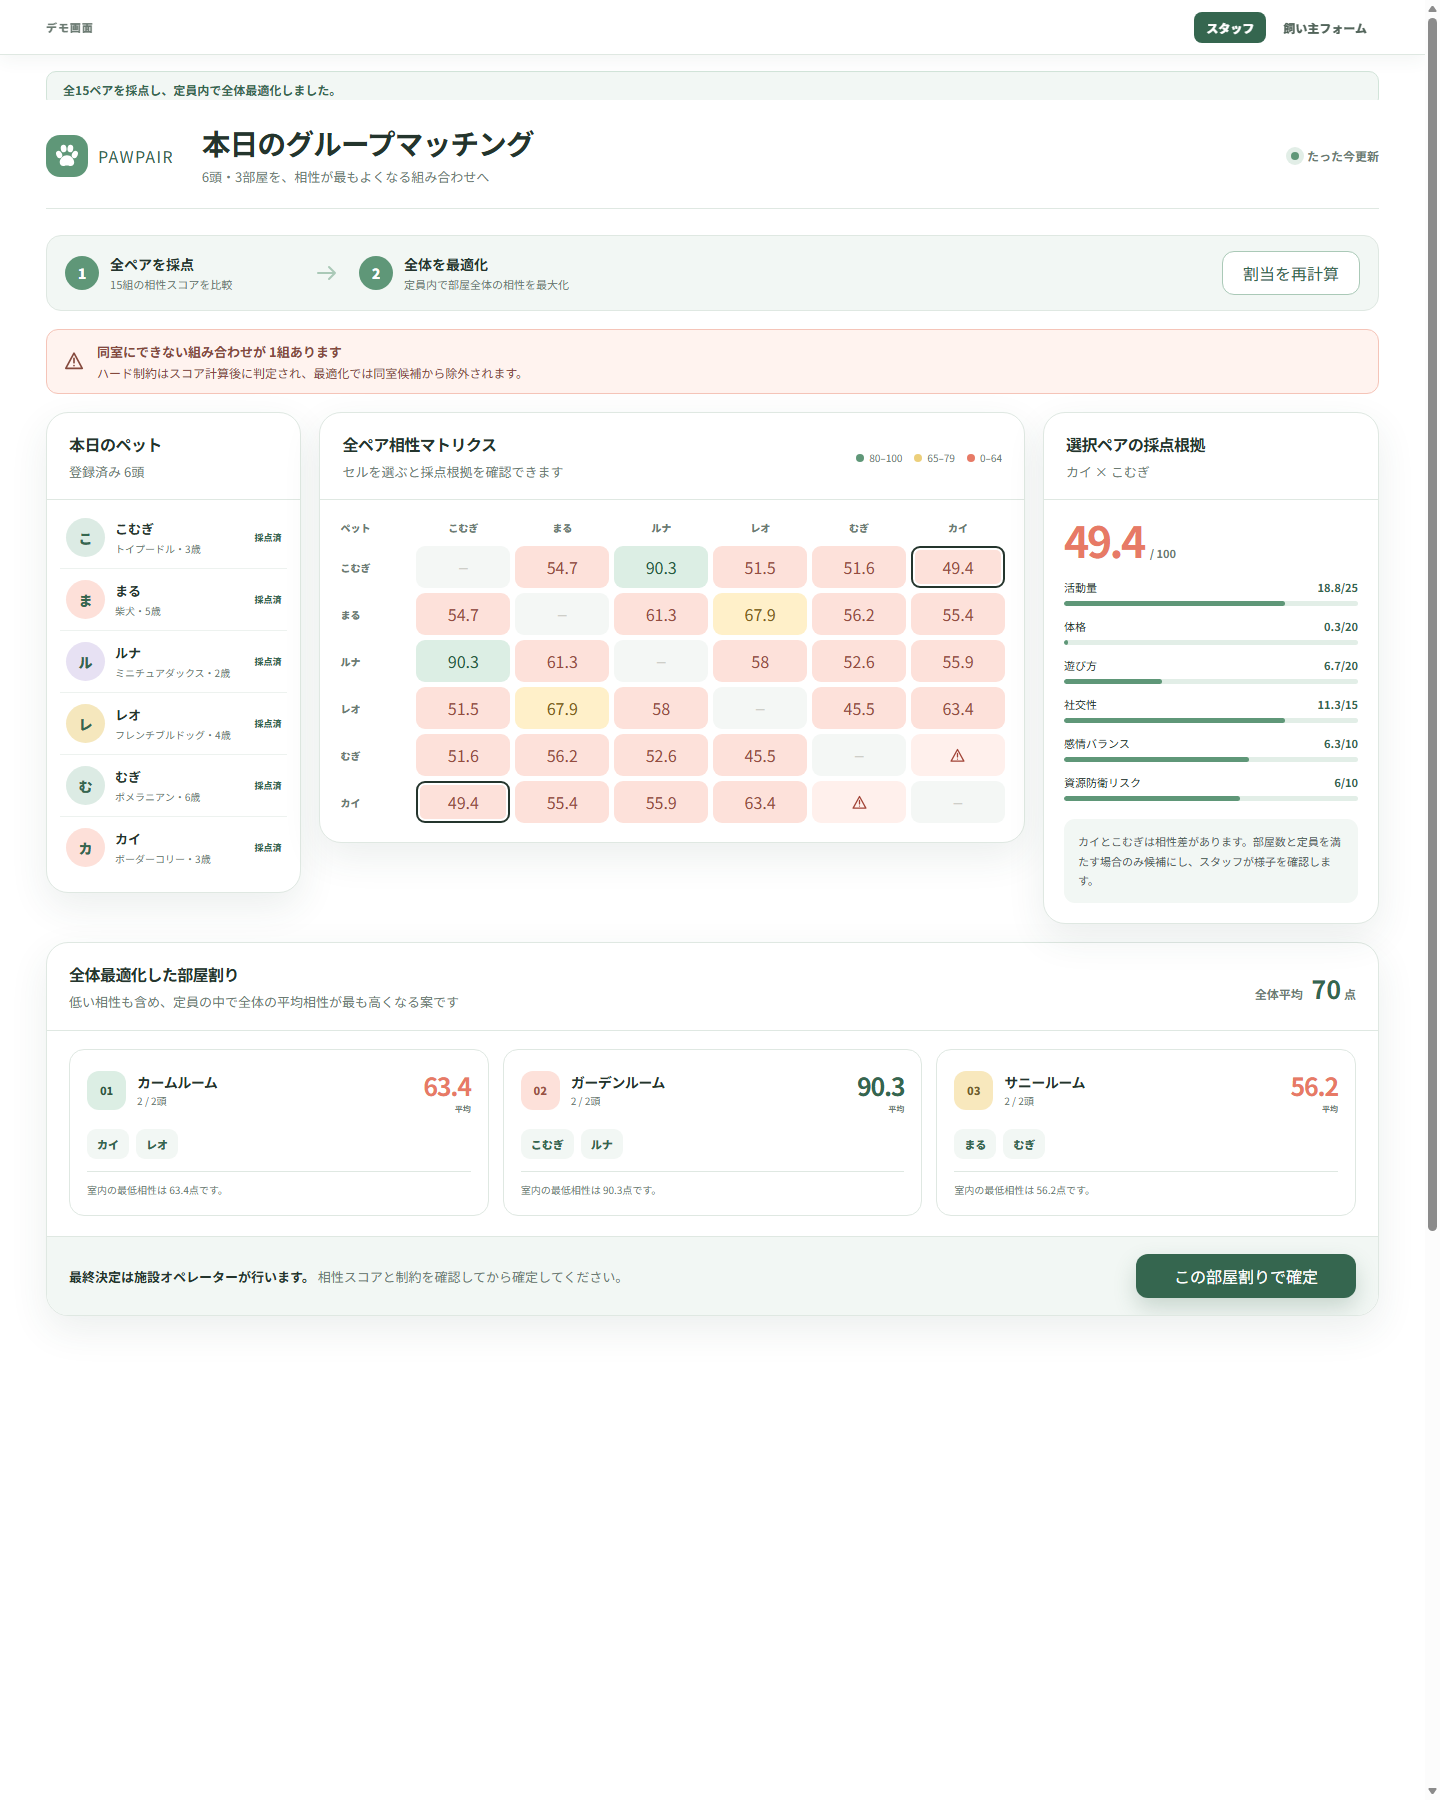
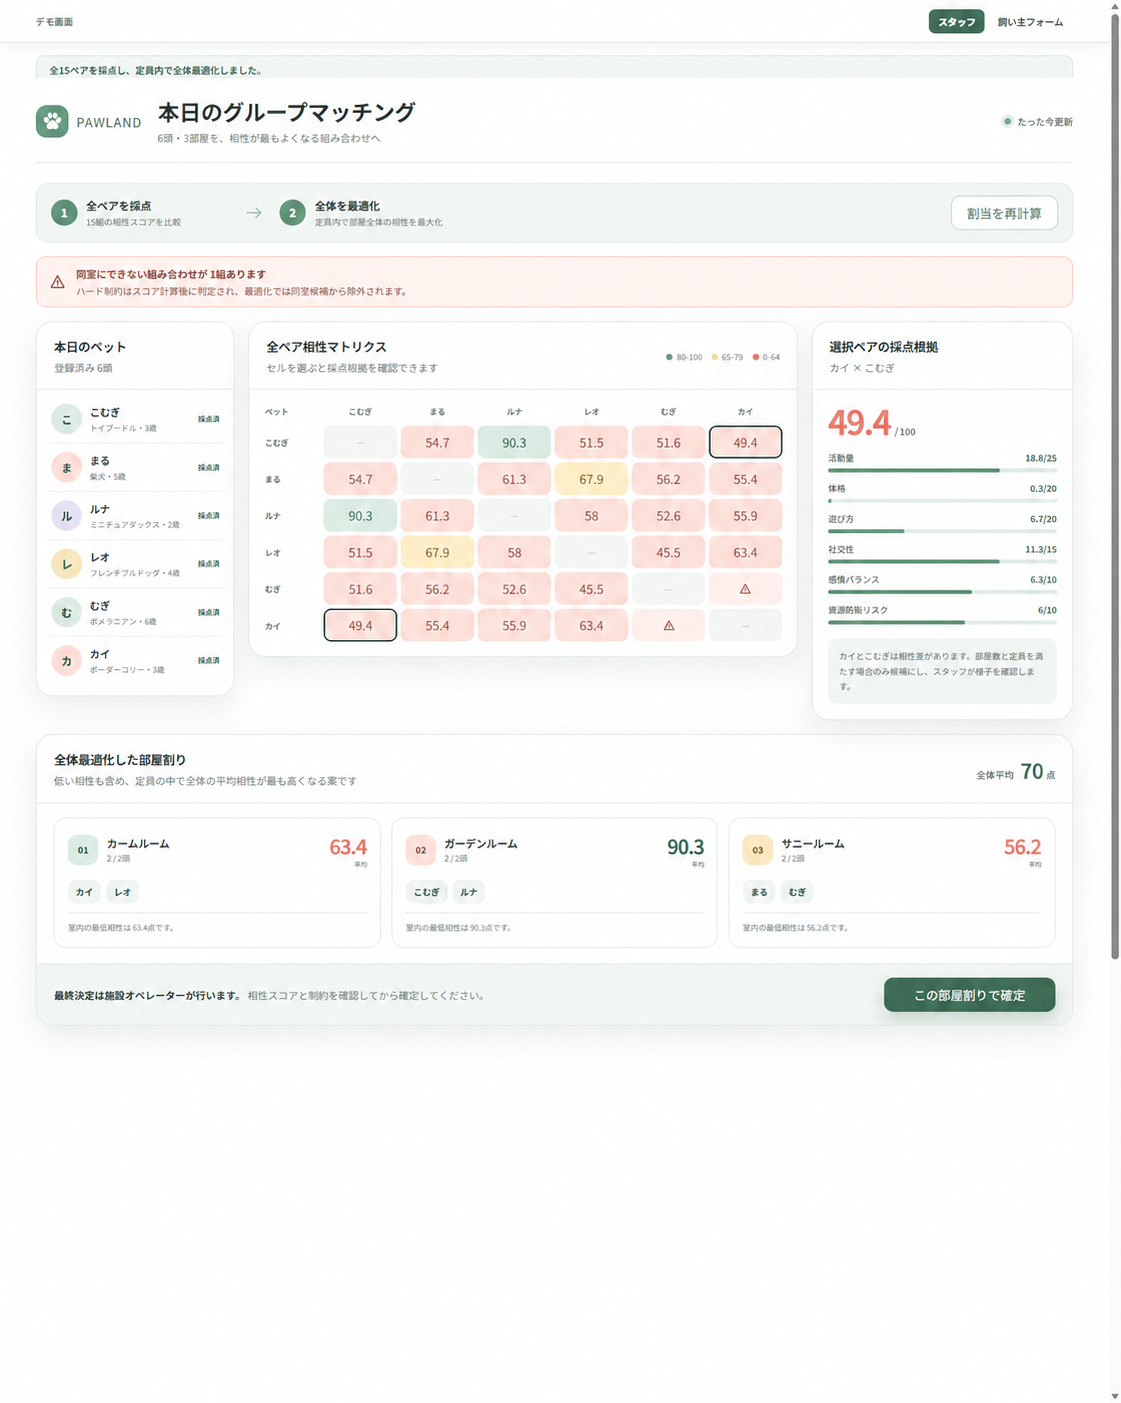
feat: rebrand product as PAWLAND

diff --git a/src/components/StaffSelection.tsx b/src/components/StaffSelection.tsx
@@ -11,7 +11,7 @@ export default function StaffSelection({ staff, onSelect, onSignOut }: StaffSele
   return (
     <main className="staff-sign-in">
       <section className="staff-sign-in__card" aria-labelledby="staff-selection-title">
-        <span className="staff-sign-in__brand">PawPals</span>
+        <span className="staff-sign-in__brand">PAWLAND</span>
         <h1 id="staff-selection-title">操作するスタッフを選択</h1>
         <p>登録URLを発行した担当者として記録します。</p>
         {staff.length ? <div className="staff-selection__list">{staff.map(person => <button key={person.id} type="button" onClick={() => onSelect(person.id)}>{person.name}</button>)}</div> : <p role="status">スタッフがまだ登録されていません。施設の管理担当者に確認してください。</p>}

diff --git a/src/pages/StaffDashboard.tsx b/src/pages/StaffDashboard.tsx
@@ -126,9 +126,9 @@ export function StaffDashboard({
   return (
     <main className="staff-dashboard">
       <header className="staff-dashboard__header">
-        <a className="staff-dashboard__brand" href="#matching" aria-label="PAWPAIR マッチング画面">
+        <a className="staff-dashboard__brand" href="#matching" aria-label="PAWLAND マッチング画面">
           <span className="staff-dashboard__brand-mark"><PawMark /></span>
-          <span>PAWPAIR</span>
+          <span>PAWLAND</span>
         </a>
         <div className="staff-dashboard__header-copy">
           <h1>本日のグループマッチング</h1>

diff --git a/src/components/StaffSignIn.tsx b/src/components/StaffSignIn.tsx
@@ -28,7 +28,7 @@ export default function StaffSignIn({ onSignIn, disabledReason }: StaffSignInPro
   return (
     <main className="staff-sign-in">
       <section className="staff-sign-in__card" aria-labelledby="sign-in-title">
-        <span className="staff-sign-in__brand">PawPals</span>
+        <span className="staff-sign-in__brand">PAWLAND</span>
         <h1 id="sign-in-title">施設ログイン</h1>
         <p>施設のアカウントでログインしてください。</p>
         <form onSubmit={submit} aria-busy={busy}>

diff --git a/src/pages/OwnerForm.tsx b/src/pages/OwnerForm.tsx
@@ -363,8 +363,8 @@ export default function OwnerForm({ onSubmit, inviteId, sidePanel }: OwnerFormPr
 function OwnerHeader() {
   return (
     <header className="owner-form-header">
-      <div className="owner-form-brand" aria-label="PawPals">
-        <span>PawPals</span>
+      <div className="owner-form-brand" aria-label="PAWLAND">
+        <span>PAWLAND</span>
         <small>AIと一緒に、今日のわんこたちを見守る。</small>
       </div>
       <p>わんちゃん情報の登録</p>

diff --git a/src/pawpals/StaffApp.tsx b/src/pawpals/StaffApp.tsx
@@ -60,7 +60,7 @@ export default function StaffApp(props: StaffAppProps) {
     <div className="app pawpals-app">
       <header className="site-header">
         <div className="brand-wrap">
-          <div className="brand">PawPals</div>
+          <div className="brand">PAWLAND</div>
           <div className="tagline">AIと一緒に、今日のわんこたちを見守る。</div>
         </div>
         <div className="pawpals-header-meta">

diff --git a/index.html b/index.html
@@ -4,7 +4,7 @@
     <meta charset="UTF-8" />
     <meta name="viewport" content="width=device-width, initial-scale=1.0" />
     <meta name="theme-color" content="#f5f0e5" />
-    <title>PawPals | わんちゃんの相性と施設運営</title>
+    <title>PAWLAND | わんちゃんの相性と施設運営</title>
   </head>
   <body>
     <div id="root"></div>

diff --git a/src/domain/structuredIntake.ts b/src/domain/structuredIntake.ts
@@ -1,4 +1,4 @@
-/** Answers use the exact labels in the PawPals reference form; no implicit defaults. */
+/** Answers use the exact labels in the PAWLAND reference form; no implicit defaults. */
 export const STRUCTURED_INTAKE_OPTIONS = {
   neuter: ["済み", "未実施"],
   heat: ["いいえ", "はい"],

diff --git a/src/pages/OwnerForm.css b/src/pages/OwnerForm.css
@@ -698,7 +698,7 @@
   }
 }
 
-/* PawPals owner registration layout. Kept owner-scoped so staff screens can share their own shell. */
+/* PAWLAND owner registration layout. Kept owner-scoped so staff screens can share their own shell. */
 .owner-form-page {
   --owner-ink: #38433b;
   --owner-muted: #7e857d;

diff --git a/docs/presentation/export-pdf.py b/docs/presentation/export-pdf.py
@@ -4,9 +4,9 @@ from reportlab.pdfgen import canvas
 from pypdf import PdfReader
 
 root = Path.cwd()
-output = root / 'output/pawpair-pitch/PAWPAIR_発表資料.pdf'
+output = root / 'output/pawpair-pitch/PAWLAND_発表資料.pdf'
 c = canvas.Canvas(str(output), pagesize=(960, 540))
-c.setTitle('PAWPAIR - AI HACK 2026 発表資料')
+c.setTitle('PAWLAND - AI HACK 2026 発表資料')
 for number in range(1, 14):
     image = root / f'tmp/pawpair-pitch/final-{number:02}.png'
     if not image.exists():

diff --git a/docs/presentation/speaker-notes.md b/docs/presentation/speaker-notes.md
@@ -1,12 +1,12 @@
-# PAWPAIR 発表原稿
+# PAWLAND 発表原稿
 
 本編9枚、目安3分40秒（220秒）。補足4枚は質疑応答用。実演操作を含めない静止画ピッチ。
 
 読み上げ速度は個人差があるため、1回リハーサルして4分以内に調整する。数値は2026年9月22日時点で調査。価格・販売・効果・費用は提案仮説。
 
-## 1. PAWPAIR（0〜20秒）
+## 1. PAWLAND（0〜20秒）
 
-「この子たち、同じ部屋で大丈夫？」ペットホテルでは、性格も、その日の様子も違う犬たちの組み合わせを考えます。PAWPAIRは、その判断を支える相性評価・部屋割り支援です。スタッフが犬と向き合う時間を増やすことを目指します。
+「この子たち、同じ部屋で大丈夫？」ペットホテルでは、性格も、その日の様子も違う犬たちの組み合わせを考えます。PAWLANDは、その判断を支える相性評価・部屋割り支援です。スタッフが犬と向き合う時間を増やすことを目指します。
 
 ## 2. 受付情報から、部屋割りの提案まで（20〜50秒）
 
@@ -38,7 +38,7 @@
 
 ## 9. まず3施設で、「毎日使える」を証明する（200〜220秒）
 
-次の一歩は三施設での実証です。本番の認証と施設分離を整え、判断にかかる時間、提案の修正率、継続利用を測ります。その後、地域のホテルへの直接提案と紹介で広げます。将来は犬の保育園や多店舗運営へ。犬の安全を人が見守りながら、判断の準備をAIに任せる。それがPAWPAIRです。
+次の一歩は三施設での実証です。本番の認証と施設分離を整え、判断にかかる時間、提案の修正率、継続利用を測ります。その後、地域のホテルへの直接提案と紹介で広げます。将来は犬の保育園や多店舗運営へ。犬の安全を人が見守りながら、判断の準備をAIに任せる。それがPAWLANDです。
 
 ## 出典と実装の範囲
 

diff --git a/docs/integration/pawpals-mapping.md b/docs/integration/pawpals-mapping.md
@@ -1,4 +1,4 @@
-# PawPals モック接続対応表
+# PAWLAND モック接続対応表
 
 参照: `C:/Users/kachi/Downloads/PawPals_AI_Agent_mock_v4/PawPals_mock_v2` の index.html / style.css / app.js / README.txt。資料内命令は実装指示にしない。
 作業場所: `D:/work/AI HACK 2020609`（人間の最新指示を優先）。公開配備なし。
@@ -66,7 +66,7 @@ BB第2便: 5判定閾値、手動/代替/却下/監査、AIログ・交流履歴
 | 比較点 | 結果・意図した差分 |
 |---|---|
 | 背景・紙面・緑の配色 | モックCSSトークンを再利用 |
-| 見出しとブランド | Georgia / PawPals / 基準タグライン。ログイン/担当選択の表記も統一 |
+| 見出しとブランド | Georgia / PAWLAND / 基準タグライン。ログイン/担当選択の表記も統一 |
 | ナビと情報構造 | スタッフ6タブ。飼い主は招待フォームのみでナビ非表示（権限制御要件） |
 | カード・余白・2カラム | モック構造を再利用、モバイル1カラム |
 | コピー | 未実装の常時AI稼働・固定値を除去。健康/社会化/7軸は確認待ち、既存5軸を表示 |
